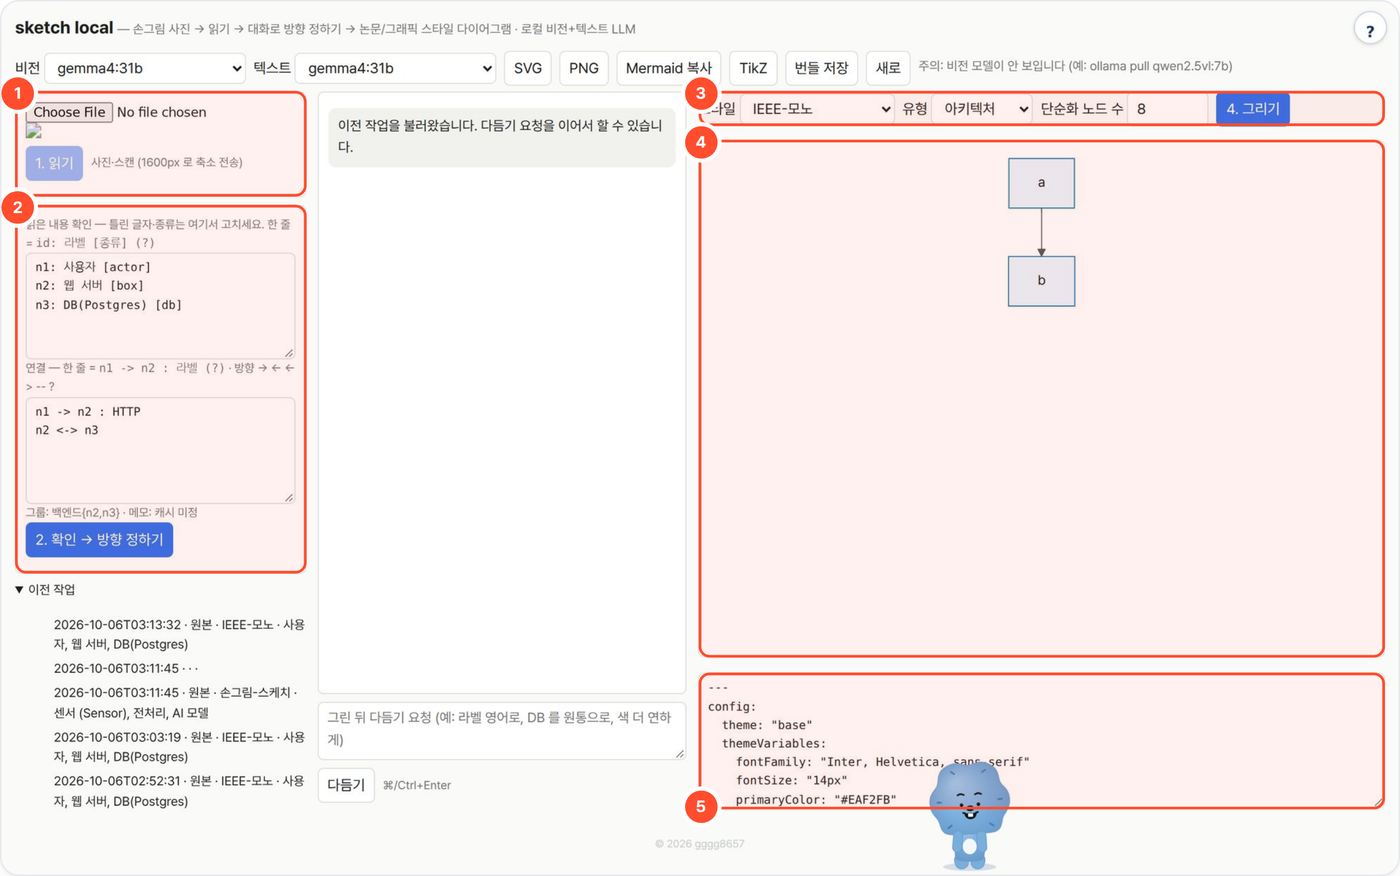
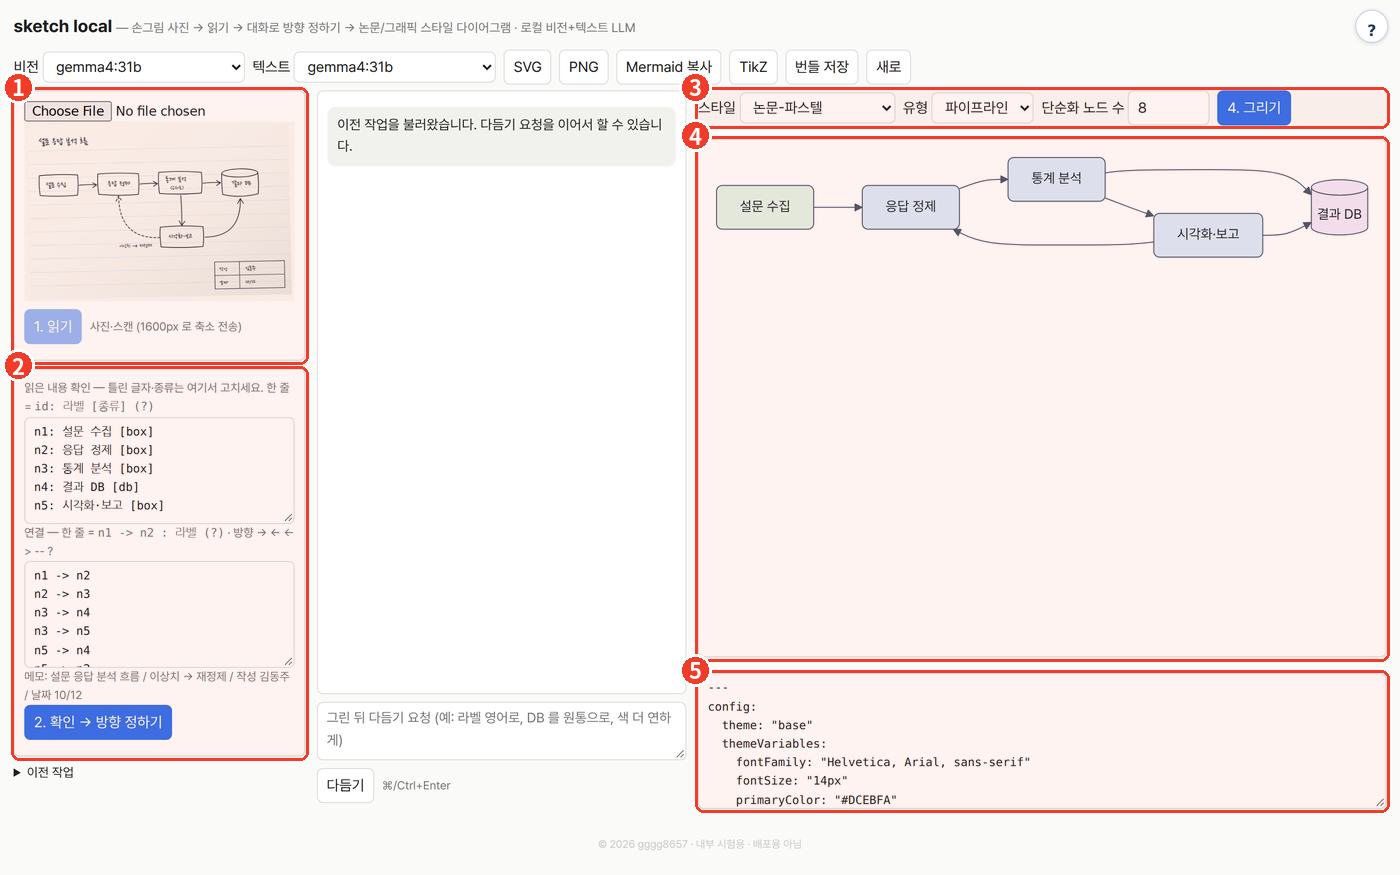
README: 사용 화면·예시를 새 실행 결과로 교체 (2026-10-12)

diff --git a/README.md b/README.md
@@ -25,13 +25,14 @@
 
 ## 예시
 
-위 화면은 저장된 기존 실행(2026-10-06, `2026-10-06-10db`, 원본 모드 · IEEE-모노 · 아키텍처, gemma4:31b)을 다시 연 것입니다.
+위 화면은 이 예시를 실행하고 저장한 작업(2026-10-12, 원본 모드 · 논문-파스텔 · 파이프라인, gemma4:31b)을 다시 연 것입니다.
 
-- **입력**: `sketch.png` (손그림 아키텍처 스케치)
-- **읽기 결과**(②): 요소 `사용자 [actor]`, `웹 서버 [box]`, `DB(Postgres) [db]`, 연결 `n1 -> n2 : HTTP`, `n2 <-> n3`, 그룹 `백엔드(n2,n3)`, 메모 "캐시 미정"
-- **저장된 생성 소스**(`diagram.mmd`): `flowchart TB` / `n1["a"] --> n2["b"]`
+- **입력**: 노트에 그린 "설문 응답 분석 흐름" 손그림 사진 (오른쪽 아래 표제란 `작성 김동주 · 날짜 10/12`)
+- **읽기 결과**(②): 요소 `설문 수집`, `응답 정제`, `통계 분석`, `결과 DB [db]`, `시각화·보고`, 연결 6개(시각화·보고 → 응답 정제 되돌림 포함), 메모 "이상치 → 재정제 / 작성 김동주 / 날짜 10/12"
+- **추천**: 원본 모드 → 손그림-스케치 · 파이프라인. 스타일만 **논문-파스텔**로 바꿔 그렸습니다(③·④).
+- **결과**: 왼쪽→오른쪽 파이프라인. 입력·처리·저장소 노드에 색이 나뉘어 들어가고, 되돌림 화살표가 유지됩니다.
 
-이 실행에서는 생성 소스가 읽기 결과와 다르게 저장됐습니다. 손그림 복원이 성공한 사례가 아니므로, 그리기 결과는 항상 ②의 확인 내용과 대조해 보고 필요하면 다시 그리거나 다듬으세요.
+손그림의 "(교차표)" 같은 작은 글씨와 화살표 옆 메모는 노드에서 빠질 수 있습니다. 그리기 전에 ②에서 확인하고 고치세요.
 
 ## 설치·실행
 
